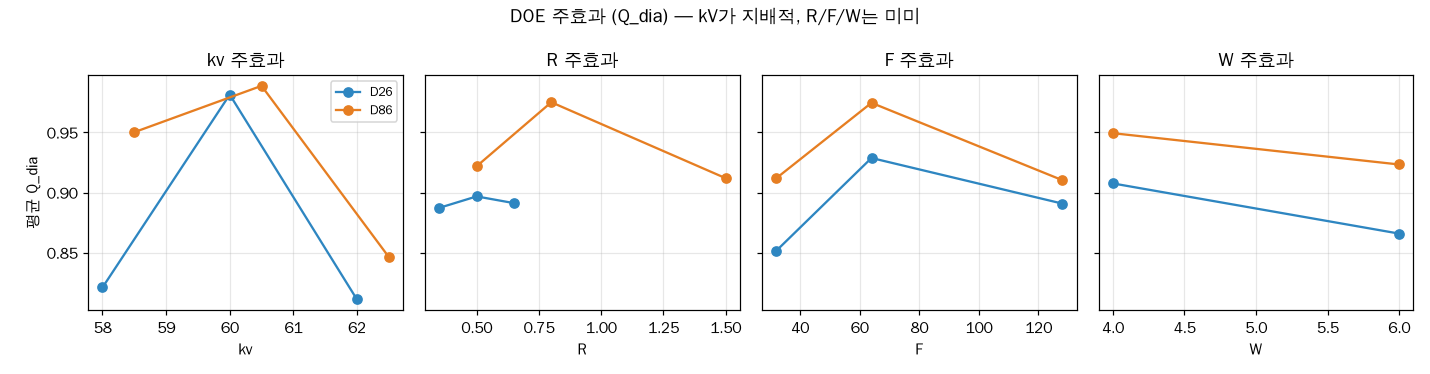
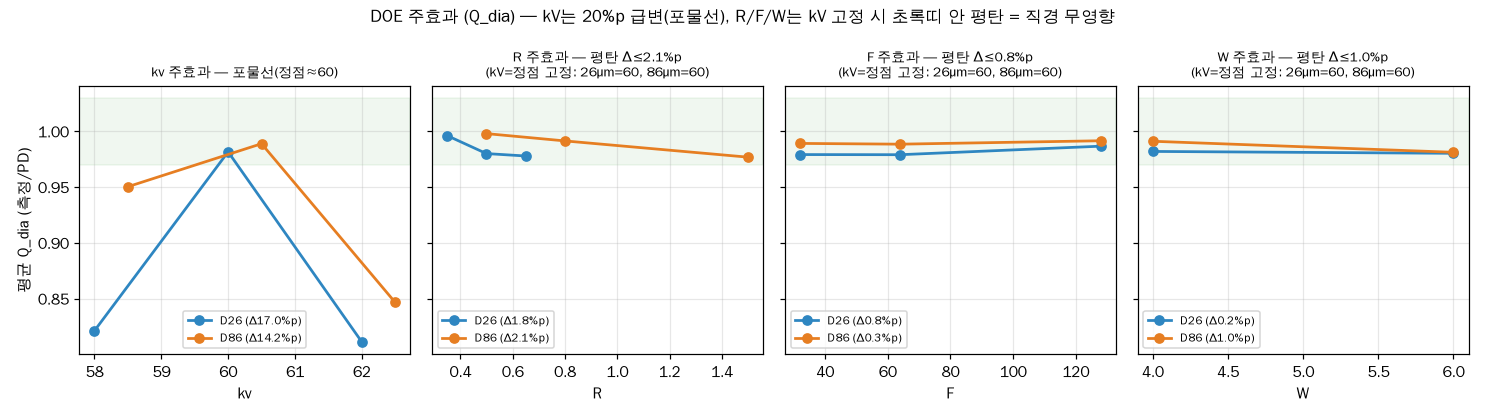
fix: 4번 주효과 그래프 교락 제거 — kV 정점 고정 후 R/F/W 평탄 표시
불균등 반복(중심점 몰림)으로 R/F/W가 기울어 보이던 착시를 제거.
R/F/W는 각 자재 정점 kV로 고정한 뒤 수준별 평균을 그리고, 같은 y축에
직경 Gate(0.97~1.03) 기준띠와 peak-to-peak(Δ%p)를 표기.
결과: kV Δ14~17%p(포물선), R/F/W Δ≤2.1%p로 직경 무영향이 한눈에 보임.

Claude-Session: https://claude.ai/code/session_01AEDPo1aa2m4Ui6JuqiXEbY

diff --git a/공정모델링/pipeline.py b/공정모델링/pipeline.py
@@ -191,17 +191,33 @@ def make_views(runs, diam, tact):
     ax.set_title(f"Tact 모델 (bump수·F)  R²={tact['r2']}")
     fig.tight_layout(); fig.savefig(f"{VIEWS}/3_Tact_실측vs예측.png", dpi=110); plt.close(fig)
 
-    # (4) DOE 주효과 (Q_dia): 각 인자 수준별 평균 Q
-    fig, axes = plt.subplots(1, 4, figsize=(13, 3.4), sharey=True)
-    for ax, fac in zip(axes, ["kv", "R", "F", "W"]):
+    # (4) DOE 주효과 (Q_dia) — 교락 제거판
+    #   kV : 전체 데이터(정점 포물선이 목적)
+    #   R/F/W : kV를 각 자재의 정점 레벨에 고정한 뒤 수준별 평균 → 교락 제거
+    #   같은 y축 + 각 패널에 peak-to-peak(Δ%p) 표기 → kV만 크고 R/F/W는 평탄함이 한눈에 보이게.
+    vtx = {a: min(sorted(set(r["kv"] for r in runs if r["anchor"] == a)),
+                  key=lambda L: abs(L - diam[a]["kv_star"])) for a in ("D26", "D86")}
+    fig, axes = plt.subplots(1, 4, figsize=(13.5, 3.8), sharey=True)
+    facs = [("kv", None), ("R", "kv"), ("F", "kv"), ("W", "kv")]
+    for ax, (fac, fixkey) in zip(axes, facs):
+        deltas = []
         for anchor in ("D26", "D86"):
             rr = [r for r in runs if r["anchor"] == anchor]
+            if fixkey == "kv":                      # 정점 kV로 고정 → 교락 제거
+                rr = [r for r in rr if r["kv"] == vtx[anchor]]
             levels = sorted(set(r[fac] for r in rr))
-            means = [np.mean([r["q"] for r in rr if r[fac] == L]) for L in levels]
-            ax.plot(levels, means, "o-", color=C[anchor], label=anchor)
-        ax.set_title(f"{fac} 주효과"); ax.set_xlabel(fac); ax.grid(alpha=.3)
-    axes[0].set_ylabel("평균 Q_dia"); axes[0].legend(fontsize=8)
-    fig.suptitle("DOE 주효과 (Q_dia) — kV가 지배적, R/F/W는 미미")
+            means = [float(np.mean([r["q"] for r in rr if r[fac] == L])) for L in levels]
+            deltas.append((max(means) - min(means)) * 100)
+            ax.plot(levels, means, "o-", color=C[anchor], lw=1.8, ms=6,
+                    label=f"{anchor}" + (f" (Δ{(max(means)-min(means))*100:.1f}%p)"))
+        ax.axhspan(0.97, 1.03, color="green", alpha=.06)   # 직경 Gate = '무영향' 기준띠
+        dtag = "포물선(정점≈60)" if fac == "kv" else f"평탄 Δ≤{max(deltas):.1f}%p"
+        cond = "" if fac == "kv" else f"\n(kV=정점 고정: 26µm={vtx['D26']:.0f}, 86µm={vtx['D86']:.0f})"
+        ax.set_title(f"{fac} 주효과 — {dtag}{cond}", fontsize=9)
+        ax.set_xlabel(fac); ax.grid(alpha=.3); ax.legend(fontsize=7.5)
+    axes[0].set_ylabel("평균 Q_dia (측정/PD)")
+    fig.suptitle("DOE 주효과 (Q_dia) — kV는 20%p 급변(포물선), R/F/W는 kV 고정 시 초록띠 안 평탄 = 직경 무영향",
+                 fontsize=11)
     fig.tight_layout(); fig.savefig(f"{VIEWS}/4_DOE주효과_Qdia.png", dpi=110); plt.close(fig)
 
 # ---------------------------------------------------------------- 6. 레시피 계산기(Excel)
